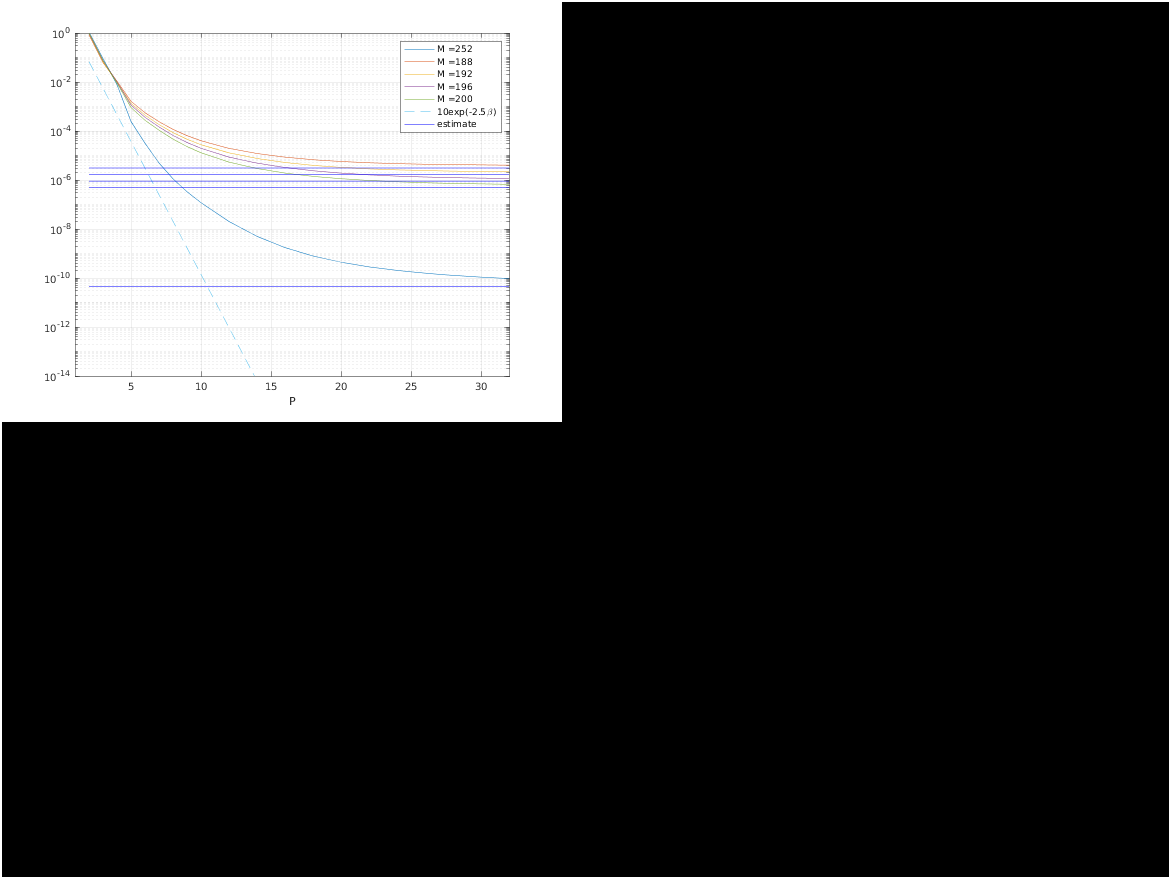
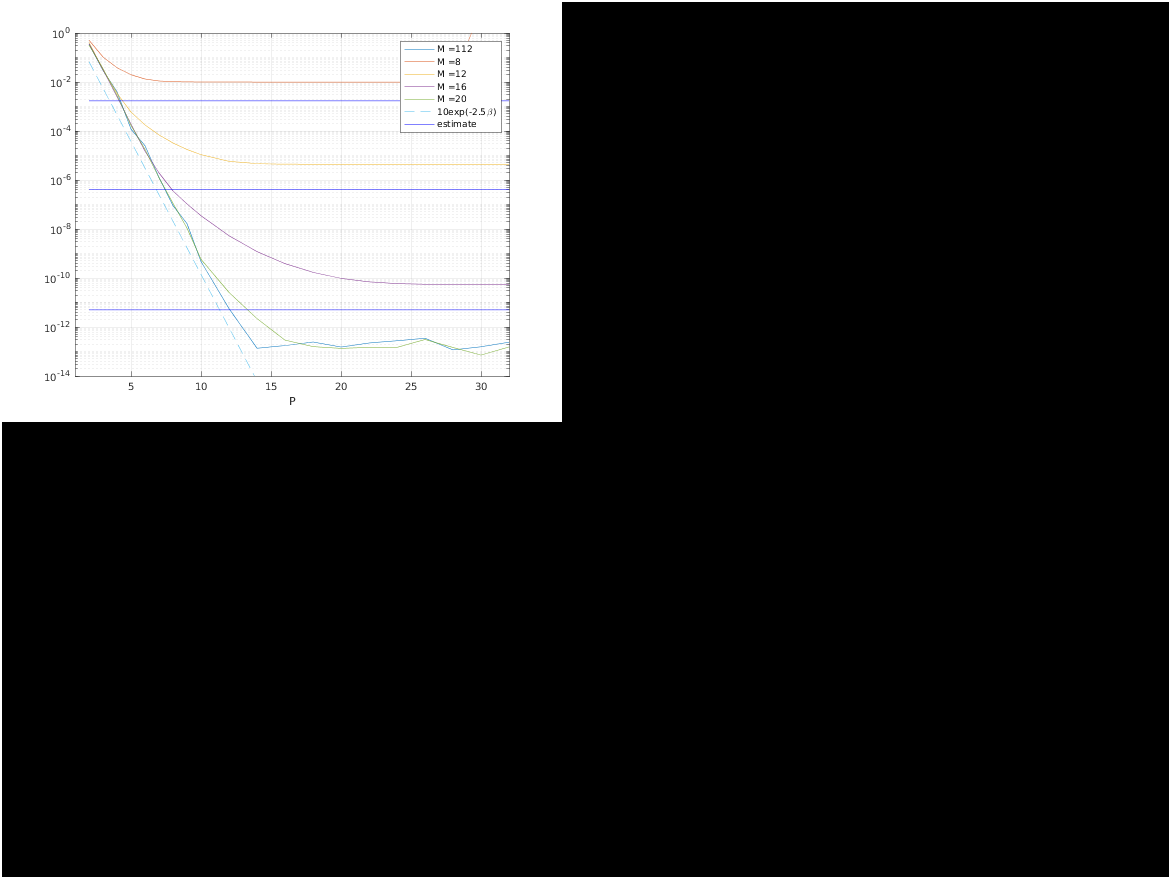
imgs

diff --git a/SE_Stokes_run/SE3P_Stokes/P_error.m b/SE_Stokes_run/SE3P_Stokes/P_error.m
@@ -8,7 +8,7 @@ N = 100; % number of source particles
 
 
 %% Parameter selection
-L = 4; % box side length
+L = 1; % box side length
 box = [L L L]; % periodic box
 opt.box = box;
 
@@ -17,7 +17,7 @@ opt.box = box;
 
 M0 = 128; % Set M0=M/L, the restu * 1+ is automatic
 opt.M = M0*[1,1,1];
-opt.xi = 20;
+opt.xi = 5;
 opt.betaP = 2.5;
 opt.c = sqrt(0.91);
 %opt.window = 'kaiser_exact';
@@ -45,7 +45,7 @@ end
 %ref = SE3P_Stokes(1:N,x,f,opt);
 rms_ref = rmse(ref);
 %% Compare solutions with changing P
-MM = 188:4:200;
+MM = 8:4:20;
 str = {};
 %est = @(M,xi,L,f) sqrt(f)*(xi^3*L^2/(pi^4*(M/2)^(3/2)))*exp(-(pi*(M/2)/(xi*L))^2);
 %est = @(M,xi,L,f) sqrt(f)*(4/(3^(1/4)*L*pi))*exp(-(pi*M/(xi*L*2))^2);
@@ -54,7 +54,7 @@ e_vec = [];
 F = sum(norm(f.^2));
 A = @(a,b,c) sqrt(a)*b*(b*c)^0;
 disp(num2str(A(F,opt.xi,opt.box(1))/rms_ref))
-for M = [252 MM]
+for M = [112 MM]
 	
 	opt.M = M*[1,1,1];
 	PP = [2:1:10,10:2:32];

diff --git a/SE_Stokes_run/SE3P_Stokes/test_file.m b/SE_Stokes_run/SE3P_Stokes/test_file.m
@@ -25,4 +25,5 @@ ll = length(N_vals)*length(xi_vals)*length(L_vals)*length(tol_vals);
 semilogy(1:ll,r,'*')
 hold on
 semilogy(1:ll,tols,'o')
+legend('SE-errors','Tolerance','Location','Best')
 exportgraphics(gcf,'testimg.png')
